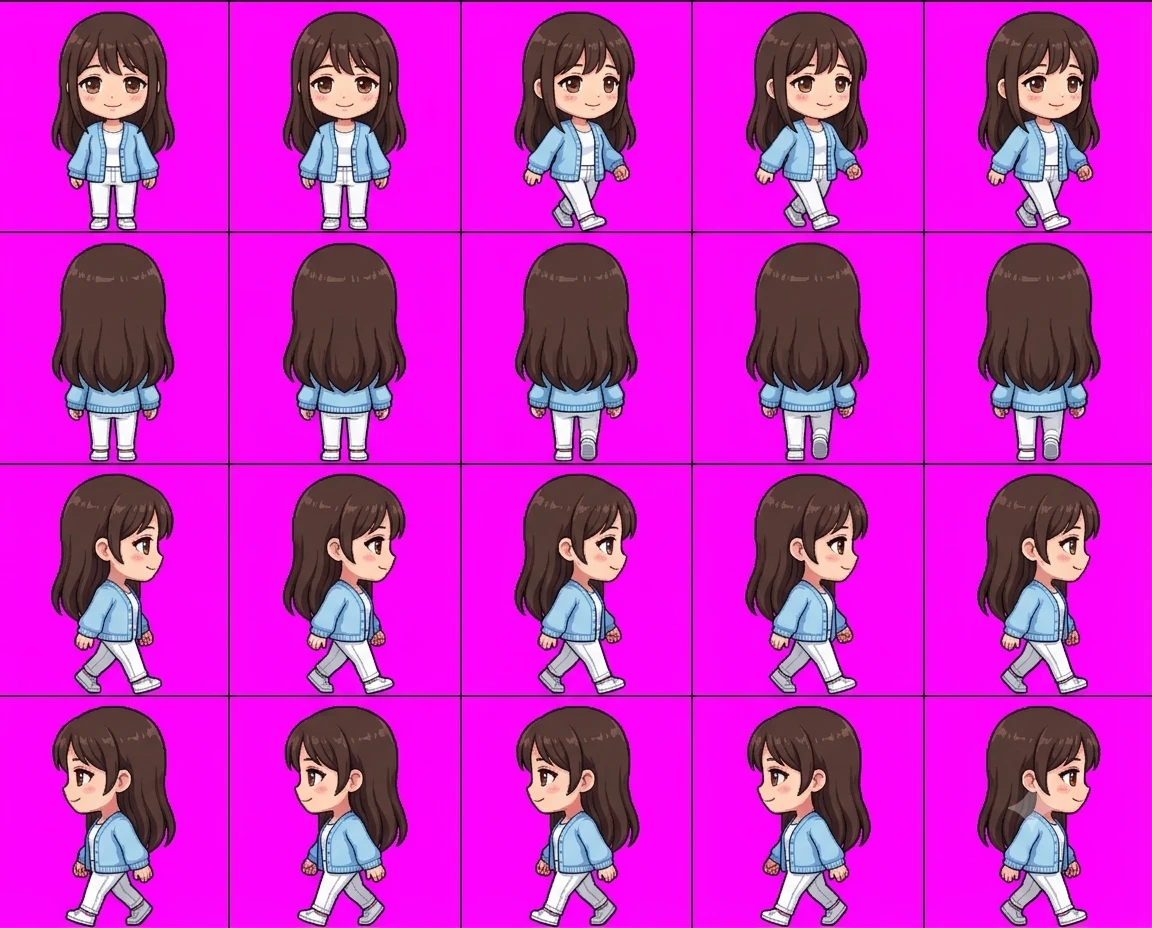
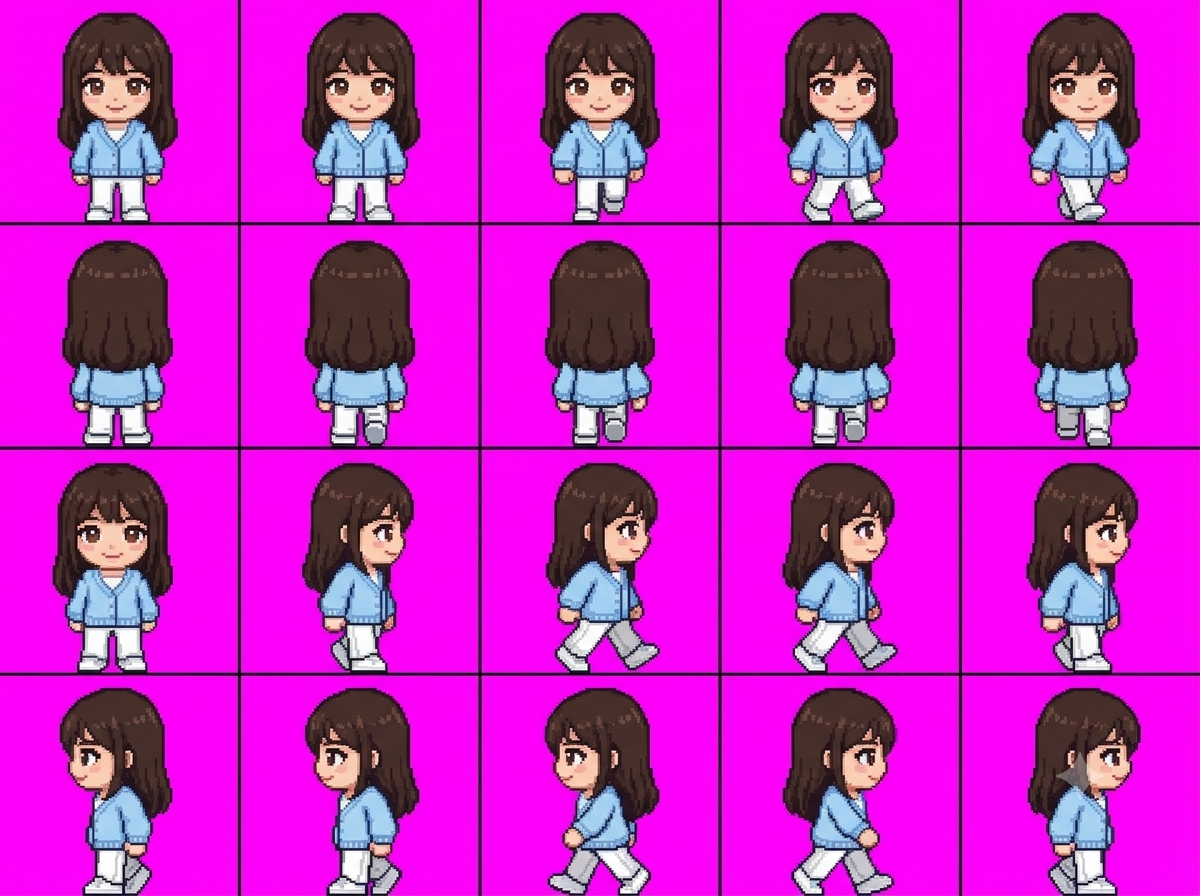
Redraw Yeoni to match the hidden girlfriend's art style
Claude-Session: https://claude.ai/code/session_01KaPsBYLrtbRfMYNG2xeBCK

Changed region(s): [[0.0, 0.0, 1.0, 1.0], [0.5938, 0.9062, 0.625, 1.0]]

diff --git a/docs/app.js b/docs/app.js
@@ -75,7 +75,7 @@ function spr(cat, k, col, sc) {
   return `<div class="clip" style="width:${it[2] * sc}px;height:${it[3] * sc}px;POS"><img class="px" src="assets/decor/${cat}.png" alt="" style="width:${S.sw * sc}px;height:${S.sh * sc}px;margin-left:${-col * S.cw * sc}px;margin-top:${-i * S.ch * sc}px"></div>`;
 }
 const icon = (k, sz) => `<span class="itm" style="width:${sz}px;height:${sz}px"><img class="px" src="assets/ui/items.png" alt="" style="width:${IT.length * sz}px;height:${sz}px;margin-left:${-ITM[k].i * sz}px"></span>`;
-const face = (id, w) => { const s = w / 96; return `<img class="px" src="assets/ch/${id}.webp?v=19" alt="" style="position:absolute;width:${384 * s}px;height:${528 * s}px;left:${-(96 * s - w) / 2}px;top:0;max-width:none">`; };
+const face = (id, w) => { const s = w / 96; return `<img class="px" src="assets/ch/${id}.webp?v=20" alt="" style="position:absolute;width:${384 * s}px;height:${528 * s}px;left:${-(96 * s - w) / 2}px;top:0;max-width:none">`; };
 
 // ---------- 저장 ----------
 let fb = null, user = null, S = null, saveT = null;
@@ -143,7 +143,7 @@ function sleepHTML(id, r, dy) {
   const pos = r.a && r.a[0] === 'bed' ? 'left:3%;bottom:20%' : r.b && r.b[0] === 'bed' ? 'right:3%;bottom:20%' : 'left:calc(50% - 44px);bottom:6%';
   const s = 36 / 96;
   return `<div style="position:absolute;width:88px;height:56px;${pos};z-index:${dy ? 4 : 5};${dy ? `transform:translate(12px,${dy}px)` : ''}"><div style="position:absolute;inset:0;filter:brightness(.22)">
-    <div style="position:absolute;left:11px;top:1px;width:36px;height:50px;overflow:hidden;transform:rotate(-90deg)"><img class="px" src="assets/ch/${id}.webp?v=19" alt="" style="width:${384 * s}px;height:${528 * s}px;max-width:none;margin-top:${-132 * s}px"></div>
+    <div style="position:absolute;left:11px;top:1px;width:36px;height:50px;overflow:hidden;transform:rotate(-90deg)"><img class="px" src="assets/ch/${id}.webp?v=20" alt="" style="width:${384 * s}px;height:${528 * s}px;max-width:none;margin-top:${-132 * s}px"></div>
     <div style="position:absolute;left:19px;top:19px;width:67px;height:29px;border:2px solid var(--ink);border-radius:8px 6px 4px 4px;background:#8ccff5;background-image:repeating-linear-gradient(90deg,transparent 0 10px,rgba(255,255,255,.5) 10px 13px)"></div></div>
     ${dy ? '' : '<span class="emo" style="left:8px;top:-22px;color:#5b6bd6">Z z z</span>'}</div>`;
 }
@@ -153,8 +153,8 @@ function roomHTML(id, o, scale) {
     <div class="floor" style="background-color:${PAL[r.fc][1]};background-image:${tileUrl('floor', r.fl)}"></div>
     ${slot('deco', r.dc, 'left:6%;top:6%')}${slot('furn', r.a, 'left:3%;bottom:20%')}${slot('furn', r.b, 'right:3%;bottom:20%')}${slot('prop', r.pr, 'left:28%;bottom:4%;z-index:2')}
     ${id && o.sleeping && g ? sleepHTML(g, r, -16) : ''}${id && o.sleeping ? sleepHTML(id, r) : ''}${id && o.job ? `<div style="position:absolute;left:50%;top:38%;transform:translateX(-50%);z-index:5;background:#fff;border:3px solid var(--ink);border-radius:10px;padding:6px 10px;font-size:11px;text-align:center;line-height:1.5"><img src="assets/ui/ic_job.png" alt="" style="width:18px;vertical-align:-4px"> ${WORK[id] ? WORK[id][1] : esc(JOB_NAME[id]) + ' 알바 중'}${g ? `<br><small>${esc(nameOf(g))}도 같이</small>` : ''}<br><b id="jobleft">${timeLeft(o.job.until)}</b></div>` : ''}
-    ${id ? `<div class="shadow" id="shd" ${o.sleeping || o.job ? 'style="display:none"' : ''}></div><div class="man" id="man" ${o.sleeping || o.job ? 'style="display:none"' : ''}><img class="px" src="assets/ch/${id}.webp?v=19" alt="${esc(nameOf(id))}"></div><span class="emo" id="emo" hidden></span><span class="mumble" id="mum" hidden></span>` : ''}
-    ${g ? `<div class="shadow" id="gshd" ${hideG}></div><div class="man" id="gman" ${hideG}><img class="px" src="assets/ch/${g}.webp?v=19" alt="${esc(nameOf(g))}"></div><span class="emo" id="gemo" hidden></span><span class="mumble gmum" id="gmum" hidden></span>` : ''}
+    ${id ? `<div class="shadow" id="shd" ${o.sleeping || o.job ? 'style="display:none"' : ''}></div><div class="man" id="man" ${o.sleeping || o.job ? 'style="display:none"' : ''}><img class="px" src="assets/ch/${id}.webp?v=20" alt="${esc(nameOf(id))}"></div><span class="emo" id="emo" hidden></span><span class="mumble" id="mum" hidden></span>` : ''}
+    ${g ? `<div class="shadow" id="gshd" ${hideG}></div><div class="man" id="gman" ${hideG}><img class="px" src="assets/ch/${g}.webp?v=20" alt="${esc(nameOf(g))}"></div><span class="emo" id="gemo" hidden></span><span class="mumble gmum" id="gmum" hidden></span>` : ''}
     ${o.sleeping ? `<div class="night"></div><div class="sleepleft">쿨쿨 · 일어나기까지 <b id="sleepleft">${timeLeft(wakeAt(o)).replace(' 남음', '')}</b></div>` : ''}
   </div>`;
 }
@@ -390,7 +390,7 @@ function startTrip(k) {
   if (tg) lines[1] = `${nameOf(tg)}: ${withHim(sub(pick(GLX(tg).trip), o, c.n), tg)}`;
   const n = (FR[id] || [4, 4, 4, 4])[3], el = document.createElement('div'); el.className = 'tripview';
   el.innerHTML = `<div class="tsay"> </div><div class="tstage" style="background-image:url(assets/travel/${k}.png?v=2)"><div class="tplace">${esc(c.n)}</div>
-    <div class="twalker"><img class="px" src="assets/ch/${id}.webp?v=19" alt=""></div>${tg ? `<div class="twalker tgirl"><img class="px" src="assets/ch/${tg}.webp?v=19" alt=""></div>` : ''}<span class="emo tjoy">♪</span></div>
+    <div class="twalker"><img class="px" src="assets/ch/${id}.webp?v=20" alt=""></div>${tg ? `<div class="twalker tgirl"><img class="px" src="assets/ch/${tg}.webp?v=20" alt=""></div>` : ''}<span class="emo tjoy">♪</span></div>
     <div class="tbar"><i></i></div><button class="btn white tskip" data-tskip="1">바로 돌아오기</button>`;
   document.body.appendChild(el);
   const gimg = el.querySelector('.tgirl img'), gn = tg ? (FR[tg] || [4, 4, 4, 4])[3] : 1;

diff --git a/docs/index.html b/docs/index.html
@@ -17,6 +17,6 @@
 <main id="app" aria-live="polite"></main>
 <div id="toast" role="status" hidden></div>
 <script src="firebase-config.js?v=3"></script>
-<script type="module" src="app.js?v=83"></script>
+<script type="module" src="app.js?v=84"></script>
 </body>
 </html>
